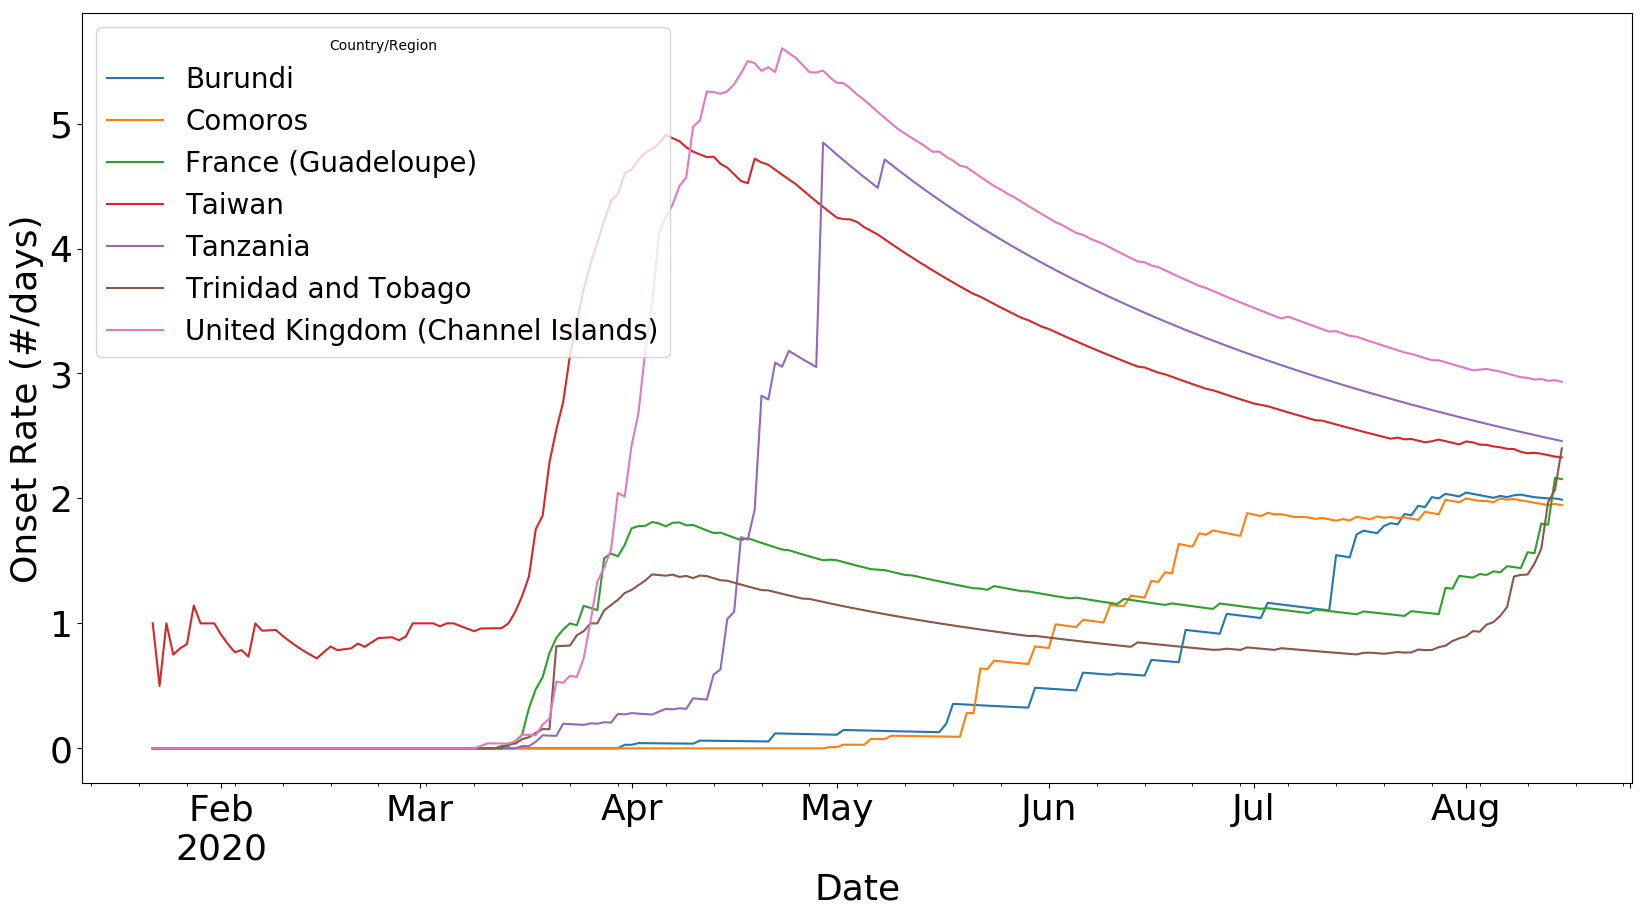
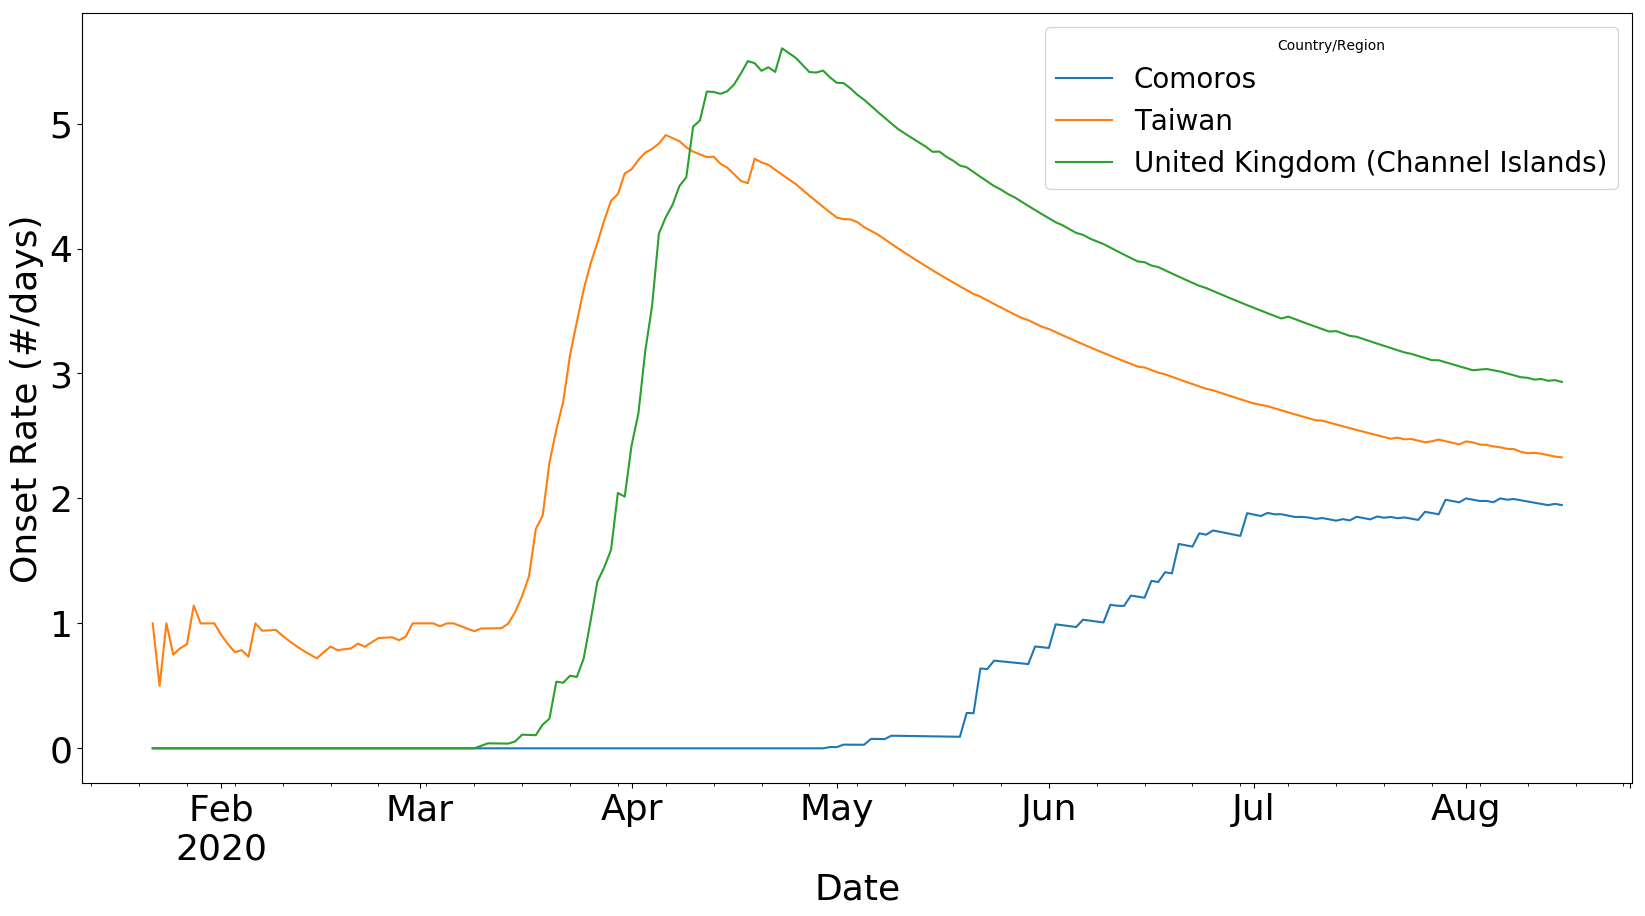
update zero cases figures and rules

diff --git a/covid19_analysis.py b/covid19_analysis.py
@@ -307,10 +307,10 @@ plt.close(fig)
 
 to_show = []
 for index, row in T.iterrows():
-  if A.at[index,T.columns[len(T.columns)-1]] < 3 and df1.at[index,T.columns[len(T.columns)-1]] > 400:
+  if A.at[index,T.columns[len(T.columns)-1]] < 3 and df1.at[index,T.columns[len(T.columns)-1]] > 400 and T.at[index,T.columns[len(T.columns)-1]]<20:
     to_show.append(T.at[index,T.columns[0]])
 
-plot = T2.plot(ylim=(0,120),figsize=(20,10),logy=False,fontsize=26,y=to_show)
+plot = T2.plot(figsize=(20,10),logy=False,fontsize=26,y=to_show)
 plt.xlabel('Date', fontsize=PLOT_FONT_SIZE)
 plt.ylabel('Average Recovery Time (days)', fontsize=PLOT_FONT_SIZE)
 #plt.show()
